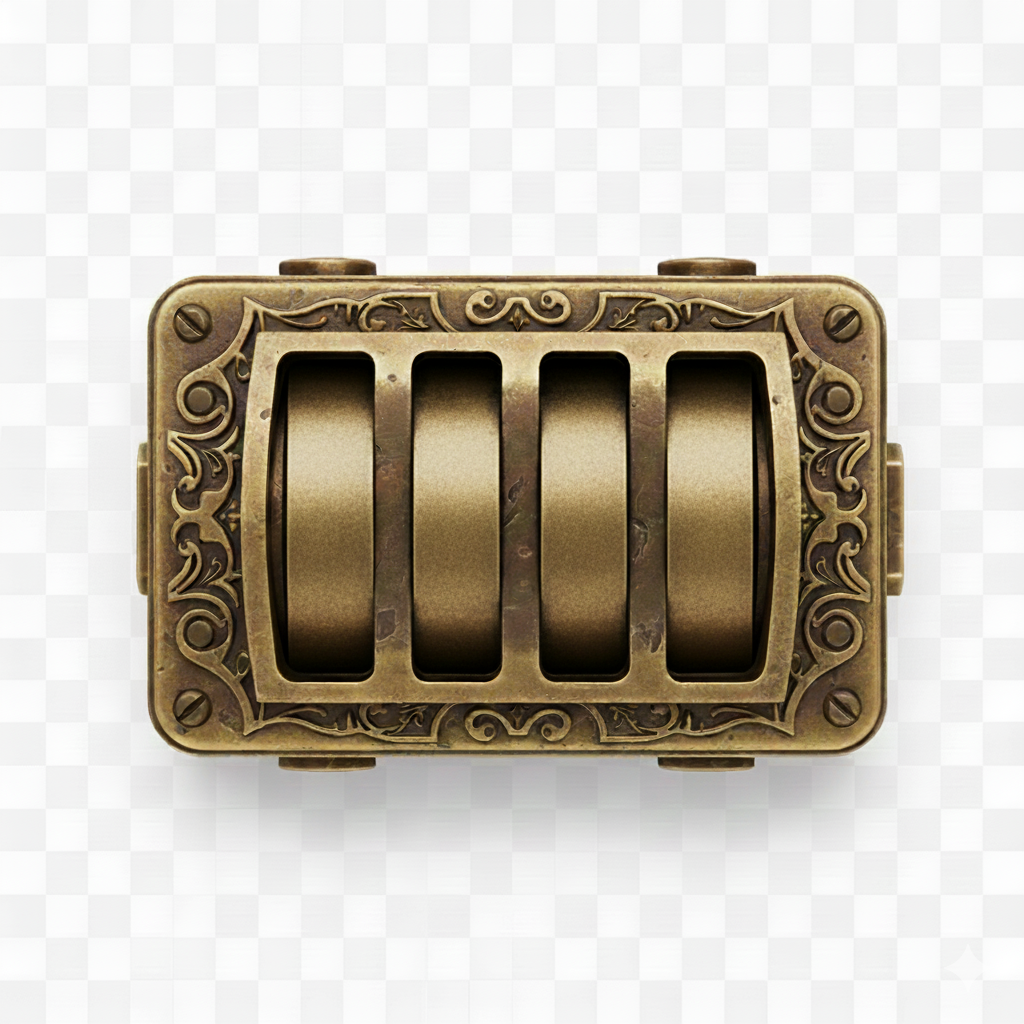
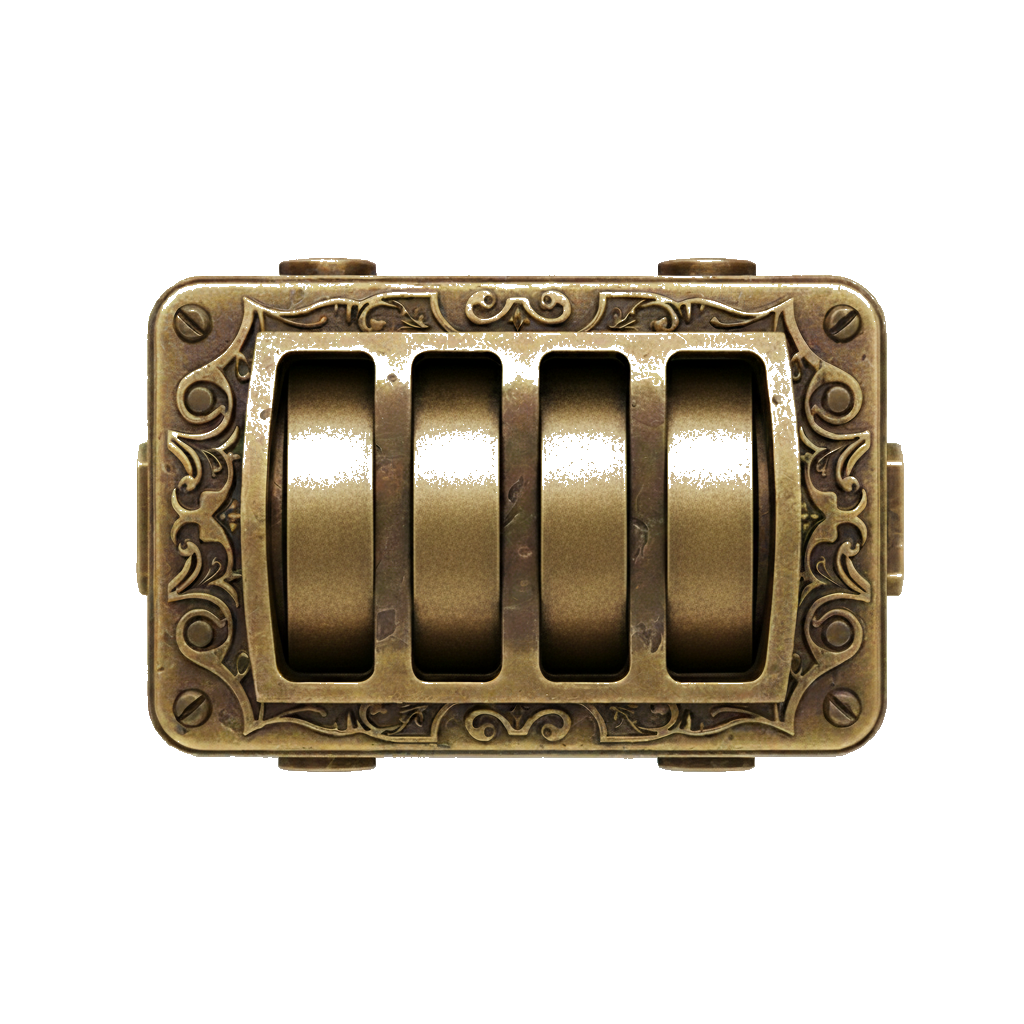
ダイヤル錠も透過版に変更し、画像ファイル名を整理
主な変更点：
- ダイヤル錠を透過版（dial-lock_transparent.png）に差し替え
- 画像ファイル名から_transparentを削除して整理
  - treasure-box_transparent.png → treasure-box.png
  - dial-lock_transparent.png → dial-lock.png
- HTMLのパスを更新

diff --git a/contents/treasure-box/index.html b/contents/treasure-box/index.html
@@ -152,7 +152,7 @@
                             <!-- 宝箱本体 -->
                             <div id="treasureBox" class="treasure-box relative cursor-grab active:cursor-grabbing">
                                 <!-- 宝箱画像 -->
-                                <img src="assets/treasure-box_transparent.png" alt="宝箱" class="treasure-box-image w-80 md:w-96 max-w-full h-auto drop-shadow-2xl select-none" draggable="false">
+                                <img src="assets/treasure-box.png" alt="宝箱" class="treasure-box-image w-80 md:w-96 max-w-full h-auto drop-shadow-2xl select-none" draggable="false">
 
                                 <!-- ダイヤル錠画像（クリックでモーダル表示） -->
                                 <div id="lockIcon" class="absolute top-1/2 left-1/2 -translate-x-1/2 translate-y-1 w-24 md:w-28 cursor-pointer hover:scale-110 transition-transform z-20 select-none" draggable="false">
